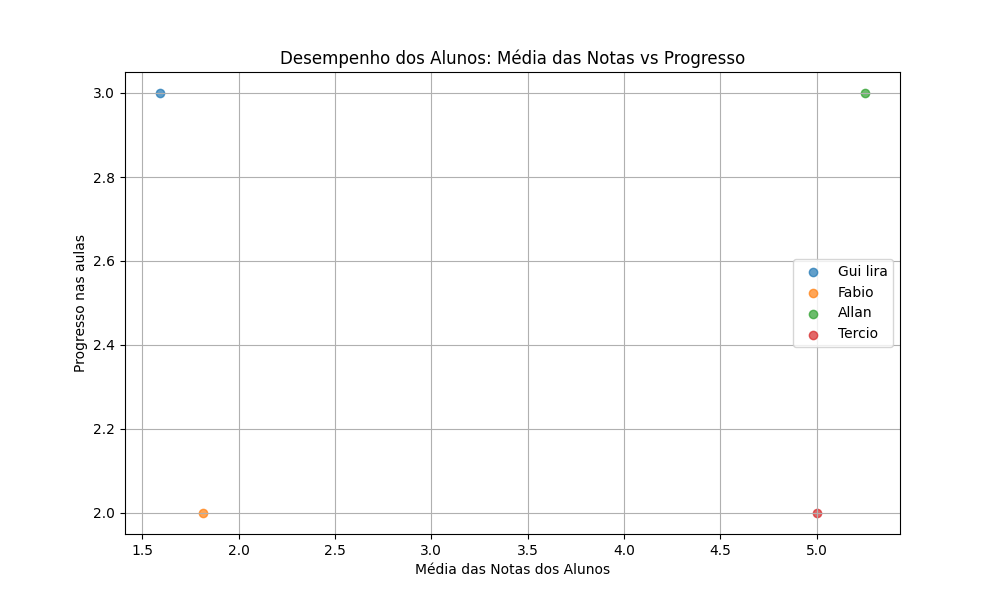
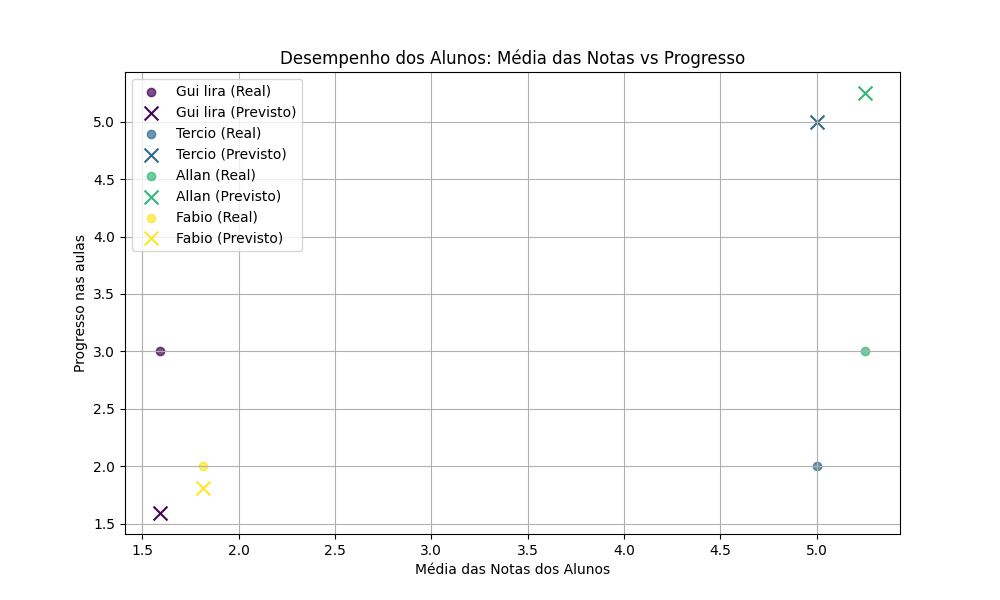
..

diff --git a/templates/feedbacks_professor.html b/templates/feedbacks_professor.html
@@ -39,7 +39,7 @@
                             <tr>
                                 <td>{{ aluno }}</td>
                                 <td>{{ dados.nota | round(2) }}</td>
-                                <td>{{ (dados.progresso * 100) | round(2) }}%</td>
+                                <td>{{ (dados.progresso *10) | round(2) }}%</td>
                                 <td>
                                     {% if dados.nota is not none and dados.nota < media_geral %}
                                         <span style="color: red;">Sim</span>
@@ -62,7 +62,7 @@
             {% if previsoes %}
                 <ul>
                     {% for aluno, previsao in previsoes.items() %}
-                        <li><strong>{{ aluno }}:</strong> Previsão de desempenho: {{ previsao | round(2) }}%</li>
+                        <li><strong>{{ aluno }}:</strong> Previsão de desempenho: {{ previsao *10 | round(2) }}%</li>
                     {% endfor %}
                 </ul>
             {% else %}

diff --git a/routes/teacher_routes.py b/routes/teacher_routes.py
@@ -70,7 +70,6 @@ def criarAula():
 
     return render_template("criarAula.html")
 
-
 @teacher_bp.route('/dashboard_professor/feedbacks')
 def ver_feedbacks():
     if session.get('user') and session.get('tipo') == 'professor':
@@ -98,7 +97,6 @@ def ver_feedbacks():
             feedbacks[titulo_aula] = respostas if respostas else []
 
             progresso = get_progresso_by_aula(aula_id)
-            print(progresso)
 
             if progresso is None:
                 flash(f"Erro ao buscar progresso para a aula {titulo_aula}.", "error")
@@ -107,14 +105,12 @@ def ver_feedbacks():
             for aluno in progresso:
                 nome = aluno['nome']
                 total_alunos.add(nome)
-
                 if nome not in progresso_por_aluno:
                     progresso_por_aluno[nome] = []
                 progresso_por_aluno[nome].append(aluno['concluida'])
 
         # Coleta as notas dos alunos
         alunos_scores = get_student_scores()
-        print(alunos_scores)
 
         # Agrupar notas para evitar duplicatas
         alunos_scores_dict = {}
@@ -127,33 +123,29 @@ def ver_feedbacks():
             else:
                 alunos_scores_dict[nome] = (nota, topico)
 
-        print(alunos_scores_dict)
         alunos_data = {}
         for nome in total_alunos:
             progresso = progresso_por_aluno.get(nome, [])
             nota = alunos_scores_dict.get(nome, (None, None))[0]
-            print(nota)
             if progresso and nota is not None:
                 alunos_data[nome] = {
-                    'progresso': sum(progresso),
-                    'nota': nota 
+                    'progresso': min(sum(progresso), 100),  # Limitar o progresso a 100
+                    'nota': nota
                 }
 
         # Previsão dos próximos resultados usando a função separada
         previsoes = prever_notas(alunos_data)
 
-        print("Previsões: ", previsoes)
-
         plot_url = None
         if alunos_data:
-            plot_url, previsoes = generate_performance_plot(alunos_data)
+            plot_url, previsoes = generate_performance_plot(alunos_data, previsoes)  # Passando previsões aqui
 
         alunos_completos = sum(all(prog) for prog in progresso_por_aluno.values())
         alunos_incompletos = len(progresso_por_aluno) - alunos_completos
 
         progresso_medio_total = sum(data['progresso'] for data in alunos_data.values()) / len(alunos_data) if alunos_data else 0
 
-       # Cálculo da média geral
+        # Cálculo da média geral
         media_geral = sum(dados['nota'] for dados in alunos_data.values() if dados['nota'] is not None)
         media_geral = media_geral / len(alunos_data) if alunos_data else 0
 
@@ -169,9 +161,11 @@ def ver_feedbacks():
             progresso_medio_total=progresso_medio_total,
             media_geral=media_geral,  # Adicionando média geral
             aula_id=aula_id,
-            alunos_data = alunos_data
+            alunos_data=alunos_data
         )
     return redirect(url_for('auth.login'))
+
+
 
 @teacher_bp.route('/dashboard_professor/avaliar_alunos', methods=["GET"])
 def avaliar_alunos():

diff --git a/utils.py b/utils.py
@@ -144,15 +144,25 @@ def generate_student_performance_plot(alunos_data):
     plt.close()
 
     return 'Performance.png'
-def generate_performance_plot(alunos_data):
+def generate_performance_plot(alunos_data, previsoes):
     plt.figure(figsize=(10, 6))
+    
+    # Dicionário para armazenar cores dos alunos
+    cores = plt.cm.viridis(np.linspace(0, 1, len(alunos_data)))  # Escolhe um colormap para as cores
 
     # Adiciona um ponto para cada aluno no gráfico
-    for nome, dados in alunos_data.items():
+    for i, (nome, dados) in enumerate(alunos_data.items()):
         media_nota = dados['nota']
         progresso = dados['progresso']
+        cor_aluno = cores[i]  # Atribui uma cor diferente para cada aluno
         
-        plt.scatter(media_nota, progresso, label=nome, alpha=0.7)  # Plotar individualmente
+        # Plotar dados reais
+        plt.scatter(media_nota, progresso, color=cor_aluno, label=f'{nome} (Real)', alpha=0.7)
+
+        # Plotar previsões, se existirem
+        if nome in previsoes:
+            previsao = previsoes[nome]
+            plt.scatter(media_nota, previsao, marker='x', color=cor_aluno, s=100, label=f'{nome} (Previsto)', alpha=1)  # 's' controla o tamanho do 'x'
 
     # Configuração do gráfico
     plt.title('Desempenho dos Alunos: Média das Notas vs Progresso')
@@ -169,7 +179,9 @@ def generate_performance_plot(alunos_data):
     plt.savefig(plot_url)
     plt.close()
 
-    return plot_url, {}
+    return plot_url, previsoes  # Retornando previsões
+
+
 
 def prever_notas(alunos_data):
     previsoes = {}
